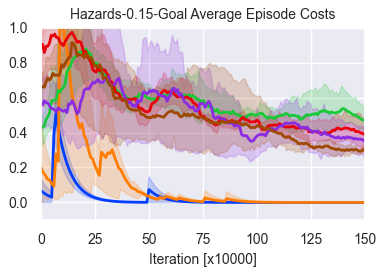
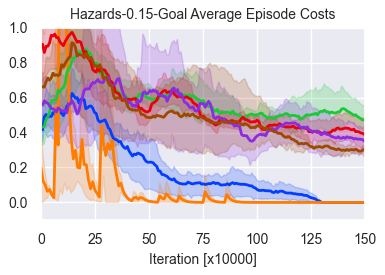
update plots

diff --git a/data_process/lineplot_aaai.py b/data_process/lineplot_aaai.py
@@ -16,7 +16,7 @@ paper = True
 sns.set(style="darkgrid")
 if paper: sns.set(font_scale=1.)
 fontsize = 10 if paper else 16
-SMOOTHFACTOR = 0.15
+SMOOTHFACTOR = 0.4
 SMOOTHFACTOR2 = 24
 DIV_LINE_WIDTH = 50
 txt_store_alg_list = ['CPO', 'PPO-L', 'TRPO-L','PPO-DA','PPO-H','FSAC-0','PPO-H2',]
@@ -39,21 +39,21 @@ legend_font_prop = dict(family='Microsoft YaHei')
 
 
 def help_func():
-    # tag2plot = ['episode_return'] #,'episode_cost', 'episode_return'
-    tag2plot = ['ep_phi_increase_times']
+    tag2plot = ['episode_cost'] #,'episode_cost', 'episode_return'
+    # tag2plot = ['ep_phi_increase_times']
     # tag2plot = ['cost_rate']
-    # alg_list = ['FSAC-A','FSAC', 'FSAC-0', 'TRPO-L', 'CPO', 'PPO-L'] #
-    alg_list = ['PPO-DA','PPO-H','PPO-H2','FSAC-0'] #
+    alg_list = ['PPO-DA','FSAC', 'FSAC-0', 'TRPO-L', 'CPO', 'PPO-L'] #
+    # alg_list = ['PPO-DA','PPO-H','PPO-H2','FSAC-0'] #
     # alg_list = ['PPO-DA', 'FSAC', 'PPO-H2', 'FSAC-0']  #
     # alg_list = ['FSAC-A','FSAC','FSAC-0'] # 'FSAC-A'
     # alg_list = ['PPO-DA', 'PPO-H', 'FSAC-0', 'TRPO-L', 'CPO', 'PPO-L']  #
     # alg_list = ['PPO-DA', 'FSAC', 'FSAC-0', 'TRPO-L', 'CPO', 'PPO-L']  #
     # lbs = ['SSAC', 'FSAC-A' ] # , 'TRPO-Lagrangian', 'CPO', 'PPO-Lagrangian'
     # lbs = [r'$\phi_h$', r'$\phi_\xi$']
-    # lbs = ['FAC-SIS', r'FAC w/ $\phi_h$', r'FAC w/ $\phi_0$', 'TRPO-L', 'CPO', 'PPO-L'] #
-    lbs = ['FAC-SIS', r'FAC w/ $\phi_{F}$',  r'FAC w/ $\phi_{IF}$', r'FAC w/ $\phi_0$',]
-    # task = ['CustomGoal2'] # 'CustomGoal2','CustomPush1','CustomGoal3',
-    task = ['CustomPush1','CustomPush2','CustomGoal3',] # 'CustomGoal2','CustomPush1','CustomGoal3',
+    lbs = ['FAC-SIS', r'FAC w/ $\phi_h$', r'FAC w/ $\phi_0$', 'TRPO-L', 'CPO', 'PPO-L'] #
+    # lbs = ['FAC-SIS', r'FAC w/ $\phi_{F}$',  r'FAC w/ $\phi_{IF}$', r'FAC w/ $\phi_0$',]
+    task = ['CustomGoal2'] # 'CustomGoal2','CustomPush1','CustomGoal3',
+    # task = ['CustomPush1','CustomPush2','CustomGoal3',] # 'CustomGoal2','CustomPush1','CustomGoal3',
     palette = "bright"
     goal_perf_list = [-200, -100, -50, -30, -20, -10, -5]
     dir_str = '../results/{}/{}' # .format(algo name) # /data2plot
